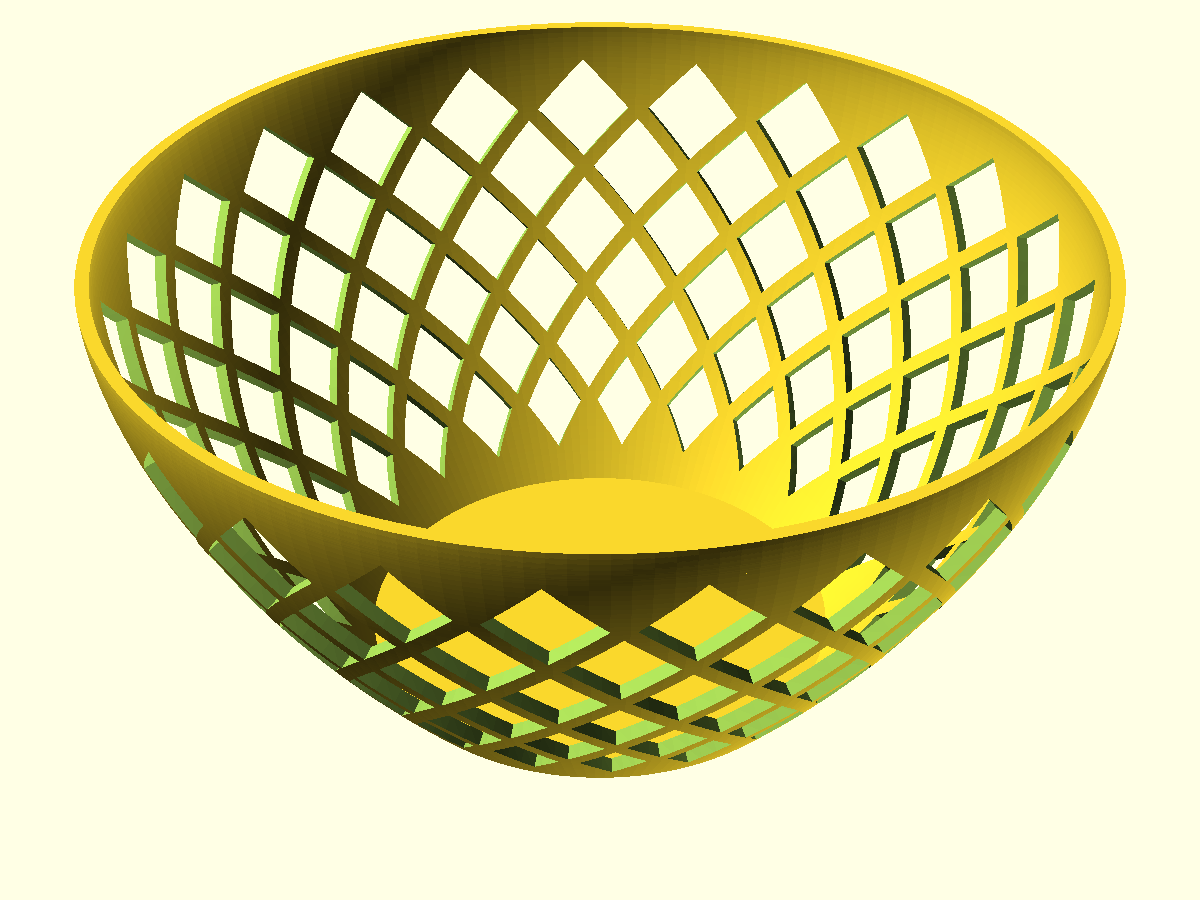
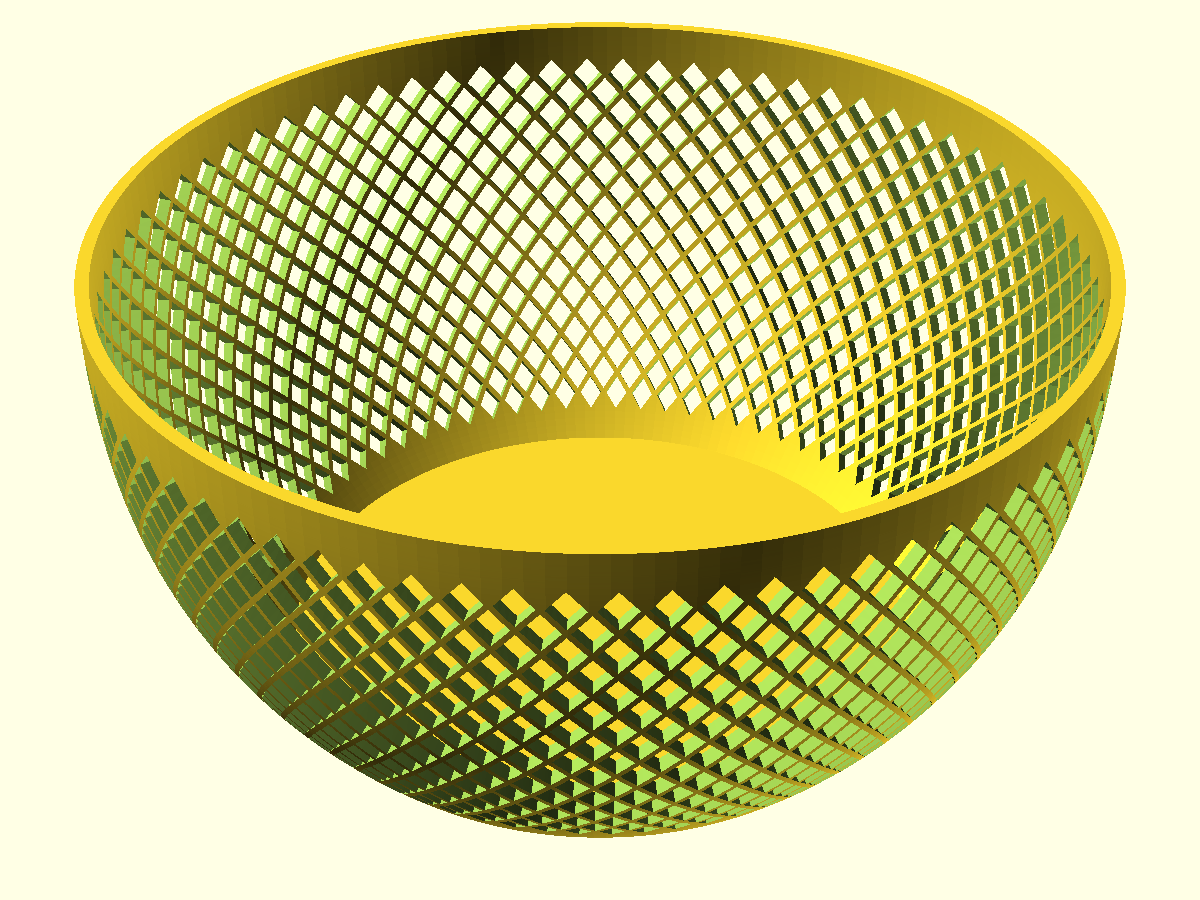
Retune the lattice bowl (wider base, rounder wall, finer lattice) and re-render it
base_diameter 120, curvature 2.6, rod_width 1, opening_size 4. About 7 h
and 81 g on the P1S.

diff --git a/lattice-bowl/README.md b/lattice-bowl/README.md
@@ -28,7 +28,7 @@ them is out of the safe range for support-free printing.
 bowl standing on its base on a Textured PEI plate: P1S 0.4 nozzle,
 *0.16mm Optimal* with Precise wall, Bambu PLA Basic in slot 1. The thinner
 layers show less stepping on the flared wall and hold the diamond edges
-better. About 4 h 30 min and 72 g with the default parameters (`make report`
+better. About 7 h and 81 g with the default parameters (`make report`
 prints the figures for your parameters). It needs Bambu Studio installed.
 
 ## Renders
